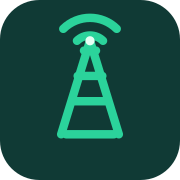
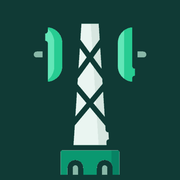
Apply approved Search ID tower mark

diff --git a/src/components/dashboard-shell.tsx b/src/components/dashboard-shell.tsx
@@ -2,6 +2,7 @@
 
 import { FormEvent, ReactNode, useEffect, useState } from "react";
 import Link from "next/link";
+import Image from "next/image";
 import dynamic from "next/dynamic";
 import { createClient } from "@/lib/supabase/client";
 import { friendlyError, ToastProvider, useToast } from "@/components/toast-provider";
@@ -225,7 +226,7 @@ function DashboardContent({ profile }: { profile: Profile }) {
   return (
     <div className="shell app-shell">
       <aside className="sidebar">
-        <div className="brand"><span className="brand-mark"><TowerIcon /></span><span><strong className="brand-name">Search ID</strong><small className="brand-sub">Tower Operations</small></span></div>
+        <div className="brand"><span className="brand-mark brand-icon-mark"><Image src="/icon-192.png" alt="" width={39} height={39} priority /></span><span><strong className="brand-name">Search ID</strong><small className="brand-sub">Tower Operations</small></span></div>
         <div className="nav-caption">Operations</div>
         <nav className="nav" aria-label="Workspace">
           {visibleNav.map((item) => <button key={item.id} className={section === item.id ? "nav-link active" : "nav-link"} onClick={() => setSection(item.id)}><AppIcon name={item.icon} /><span>{item.label}</span></button>)}
@@ -404,8 +405,6 @@ function CrewDetail({ shift, vehicle, fallback }: { shift: "Day" | "Night"; vehi
     ? <span className="info-value">Driver: <strong>{String(vehicle.driver || "Not set")}</strong> · Supervisor: <strong>{String(vehicle.fueler_supervisor || "Not set")}</strong></span>
     : <span className="info-value">{fallback}</span>}</div></div>;
 }
-
-function TowerIcon() { return <svg viewBox="0 0 40 40" fill="none" stroke="currentColor" strokeWidth="2.2" strokeLinecap="round" strokeLinejoin="round" aria-hidden="true"><path d="M20 7 11 34m9-27 9 27M14 25h12M16 19h8M18 13h4M13 34h14"/><path d="M16 7a5.7 5.7 0 0 1 8 0M12.5 3.5a10.6 10.6 0 0 1 15 0"/></svg>; }
 
 type IconName = "search" | "site" | "fuel" | "vehicle" | "people" | "user" | "message" | "copy" | "chevron" | "pin" | "route" | "menu" | "close" | "download";
 function AppIcon({ name }: { name: IconName }) {

diff --git a/src/app/download/page.tsx b/src/app/download/page.tsx
@@ -1,5 +1,6 @@
 import type { Metadata } from "next";
 import Link from "next/link";
+import Image from "next/image";
 import styles from "./page.module.css";
 
 export const metadata: Metadata = {
@@ -12,11 +13,7 @@ export default function DownloadPage() {
     <main className={styles.page}>
       <header className={styles.header}>
         <Link href="/" className={styles.brand} aria-label="Search ID home">
-          <span className={styles.brandIcon} aria-hidden="true">
-            <svg viewBox="0 0 40 40" fill="none" stroke="currentColor" strokeWidth="2.2" strokeLinecap="round" strokeLinejoin="round">
-              <path d="M20 7 11 34m9-27 9 27M14 25h12M16 19h8M18 13h4M13 34h14M16 7a5.7 5.7 0 0 1 8 0M12.5 3.5a10.6 10.6 0 0 1 15 0" />
-            </svg>
-          </span>
+          <Image className={styles.brandIcon} src="/icon-192.png" alt="" width={42} height={42} priority />
           <span><strong>Search ID</strong><small>Tower Operations</small></span>
         </Link>
         <Link href="/" className={styles.backLink}>Back to Search ID</Link>
@@ -37,7 +34,7 @@ export default function DownloadPage() {
         <div className={styles.preview} aria-hidden="true">
           <div className={styles.phone}>
             <div className={styles.phoneTop}><span /><i /></div>
-            <div className={styles.appMark}><svg viewBox="0 0 40 40" fill="none" stroke="currentColor" strokeWidth="2.2" strokeLinecap="round" strokeLinejoin="round"><path d="M20 7 11 34m9-27 9 27M14 25h12M16 19h8M18 13h4M13 34h14M16 7a5.7 5.7 0 0 1 8 0M12.5 3.5a10.6 10.6 0 0 1 15 0" /></svg></div>
+            <Image className={styles.appMark} src="/icon-192.png" alt="" width={49} height={49} />
             <strong>Search ID</strong><small>Tower Operations</small>
             <div className={styles.searchCard}><span>Site ID</span><b>1260</b><div>Find site <span>⌕</span></div></div>
             <div className={styles.resultCard}><span>F1 Zone</span><b>North Karachi</b><span>Day Vehicle Crew</span><b>Driver: Haji M. · Supervisor: Asif</b></div>

diff --git a/src/components/inactive-account.tsx b/src/components/inactive-account.tsx
@@ -1,6 +1,7 @@
 "use client";
 
 import { useState } from "react";
+import Image from "next/image";
 import { createClient } from "@/lib/supabase/client";
 import { friendlyError, ToastProvider, useToast } from "@/components/toast-provider";
 
@@ -18,5 +19,5 @@ function InactiveAccountContent() {
     } catch (cause) { notify(friendlyError(cause, "Could not sign out. Please try again."), "error"); }
     finally { setBusy(false); }
   }
-  return <main className="login-wrap"><section className="login-panel"><div className="brand-mark tower-brand-mark" aria-hidden="true"><svg viewBox="0 0 40 40" fill="none" stroke="currentColor" strokeWidth="2.2" strokeLinecap="round" strokeLinejoin="round"><path d="M20 7 11 34m9-27 9 27M14 25h12M16 19h8M18 13h4M13 34h14M16 7a5.7 5.7 0 0 1 8 0M12.5 3.5a10.6 10.6 0 0 1 15 0" /></svg></div><h1>Account deactivated</h1><p className="muted">This account no longer has access to Search ID. Contact the super admin if you think this is a mistake.</p><button className="primary-button" onClick={signOut} disabled={busy}>{busy ? "Signing out…" : "Sign out"}</button></section></main>;
+  return <main className="login-wrap"><section className="login-panel"><div className="brand-mark login-logo-mark"><Image src="/icon-512.png" alt="" width={50} height={50} priority /></div><h1>Account deactivated</h1><p className="muted">This account no longer has access to Search ID. Contact the super admin if you think this is a mistake.</p><button className="primary-button" onClick={signOut} disabled={busy}>{busy ? "Signing out…" : "Sign out"}</button></section></main>;
 }

diff --git a/src/app/download/page.module.css b/src/app/download/page.module.css
@@ -17,7 +17,8 @@
 
 .brand { display: flex; align-items: center; gap: 11px; color: #14252d; text-decoration: none; }
 .brandIcon { display: grid; width: 42px; height: 42px; place-items: center; border-radius: 13px; background: #103a35; color: #27cc92; }
-.brandIcon svg { width: 27px; height: 27px; }
+.brandIcon { overflow: hidden; padding: 0; }
+.brandIcon img { display: block; width: 42px; height: 42px; border-radius: 12px; object-fit: cover; }
 .brand > span:last-child { display: grid; gap: 2px; }
 .brand strong { font-size: 17px; }
 .brand small { color: #60717d; font-size: 11px; }
@@ -54,7 +55,7 @@
 .phoneTop span { width: 55px; height: 5px; border-radius: 9px; background: #173a35; }
 .phoneTop i { position: absolute; right: 20px; width: 6px; height: 6px; border-radius: 50%; background: #9db5ad; }
 .appMark { display: grid; width: 49px; height: 49px; place-items: center; margin-bottom: 9px; border-radius: 15px; background: #103a35; color: #27cc92; }
-.appMark svg { width: 31px; height: 31px; }
+.appMark { object-fit: cover; }
 .phone > strong { font-size: 15px; }
 .phone > small { margin-top: 3px; color: #74827f; font-size: 10px; }
 .searchCard, .resultCard { display: grid; width: 100%; gap: 7px; padding: 12px; border: 1px solid #e1eae6; border-radius: 10px; background: #fff; }

diff --git a/src/components/sign-in-form.tsx b/src/components/sign-in-form.tsx
@@ -2,6 +2,7 @@
 
 import { FormEvent, useState } from "react";
 import Link from "next/link";
+import Image from "next/image";
 import { useRouter } from "next/navigation";
 import { createClient } from "@/lib/supabase/client";
 import { friendlyError, ToastProvider, useToast } from "@/components/toast-provider";
@@ -43,7 +44,7 @@ function SignInContent() {
   return (
     <main className="login-wrap">
       <section className="login-panel">
-        <div className="brand-mark tower-brand-mark" aria-hidden="true"><svg viewBox="0 0 40 40" fill="none" stroke="currentColor" strokeWidth="2.2" strokeLinecap="round" strokeLinejoin="round"><path d="M20 7 11 34m9-27 9 27M14 25h12M16 19h8M18 13h4M13 34h14M16 7a5.7 5.7 0 0 1 8 0M12.5 3.5a10.6 10.6 0 0 1 15 0" /></svg></div>
+        <div className="brand-mark login-logo-mark"><Image src="/icon-512.png" alt="" width={50} height={50} priority /></div>
         <p className="eyebrow">TOWER OPERATIONS</p>
         <h1>Search ID</h1>
         <p className="muted">Sign in with your ID number and password.</p>

diff --git a/src/app/redesign-adapter.css b/src/app/redesign-adapter.css
@@ -9,8 +9,9 @@ h1, h2, h3, .card-title, .section-title, .crumbs strong, .nav-link span, .mobile
 .sidebar .brand { padding-bottom: 30px; }
 .sidebar .brand > span:last-child { display: grid; gap: 2px; min-width: 0; }
 .sidebar .brand-mark { flex: 0 0 39px; }
-.sidebar .brand-mark > svg { width: 24px; height: 30px; }
-.tower-brand-mark svg { width: 30px; height: 30px; }
+.sidebar .brand-icon-mark img { display: block; width: 39px; height: 39px; border-radius: 11px; object-fit: cover; }
+.login-logo-mark { overflow: hidden; padding: 0; }
+.login-logo-mark img { display: block; width: 50px; height: 50px; border-radius: 13px; object-fit: cover; }
 .connectivity-label { display: inline-flex; align-items: center; gap: 7px; color: #42635a; font-size: 11px; white-space: nowrap; }
 .connectivity-label > span { width: 7px; height: 7px; flex: 0 0 7px; border-radius: 50%; background: #16a875; box-shadow: 0 0 0 3px #e4f5ee; }
 .connectivity-label.is-offline { color: #876124; }
